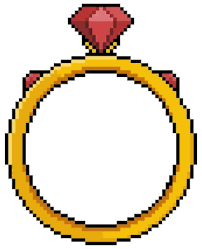
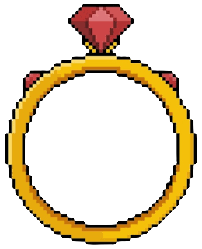
update

diff --git a/lib/game/entities/unicorn.dart b/lib/game/entities/unicorn.dart
@@ -1,0 +1,49 @@
+import 'package:flame/components.dart';
+import 'package:flame_behaviors/flame_behaviors.dart';
+import 'package:flutter/material.dart';
+import 'package:player_ns_shaft/gen/assets.gen.dart';
+
+class Unicorn extends Entity with HasGameRef {
+  Unicorn({
+    required super.position,
+  }) : super(size: Vector2.all(32), anchor: Anchor.center);
+
+  @visibleForTesting
+  Unicorn.test({
+    required super.position,
+    super.behaviors,
+  }) : super(size: Vector2.all(32));
+
+  SpriteAnimation? _animation;
+  int removeLimit = 0;
+
+  @visibleForTesting
+  SpriteAnimation get animation => _animation!;
+
+  @override
+  Future<void> onLoad() async {
+    _animation = await gameRef.loadSpriteAnimation(
+      Assets.images.unicornAnimation.path,
+      SpriteAnimationData.sequenced(
+        amount: 16,
+        stepTime: 0.1,
+        textureSize: Vector2.all(32),
+        loop: false,
+      ),
+    );
+
+    await add(SpriteAnimationComponent(animation: _animation, size: size));
+  }
+
+  @override
+  void update(double dt) {
+    final cameraVisibleBottom =
+        gameRef.camera.position.y + gameRef.camera.gameSize.y / 2 + 32;
+    if (position.y < cameraVisibleBottom) {
+      removeLimit++;
+      if (removeLimit == 200) {
+        gameRef.remove(this);
+      }
+    }
+  }
+}

diff --git a/lib/gen/assets.gen.dart b/lib/gen/assets.gen.dart
@@ -25,6 +25,9 @@ class $AssetsAudioGen {
 class $AssetsImagesGen {
   const $AssetsImagesGen();
 
+  /// File path: assets/images/ring.png
+  AssetGenImage get ring => const AssetGenImage('assets/images/ring.png');
+
   /// File path: assets/images/unicorn_animation.png
   AssetGenImage get unicornAnimation =>
       const AssetGenImage('assets/images/unicorn_animation.png');
@@ -33,21 +36,8 @@ class $AssetsImagesGen {
   AssetGenImage get warriorAnimation =>
       const AssetGenImage('assets/images/warrior_animation.png');
 
-  /// File path: assets/images/wooden_control_left.png
-  AssetGenImage get woodenControlLeft =>
-      const AssetGenImage('assets/images/wooden_control_left.png');
-
-  /// File path: assets/images/wooden_control_right.png
-  AssetGenImage get woodenControlRight =>
-      const AssetGenImage('assets/images/wooden_control_right.png');
-
   /// List of all assets
-  List<AssetGenImage> get values => [
-        unicornAnimation,
-        warriorAnimation,
-        woodenControlLeft,
-        woodenControlRight
-      ];
+  List<AssetGenImage> get values => [ring, unicornAnimation, warriorAnimation];
 }
 
 class $AssetsLicensesGen {

diff --git a/lib/game/player_ns_shaft.dart b/lib/game/player_ns_shaft.dart
@@ -7,9 +7,11 @@ import 'package:flame/palette.dart';
 import 'package:flutter/material.dart';
 import 'package:player_ns_shaft/game/entities/final_terrace.dart';
 import 'package:player_ns_shaft/game/entities/player/player.dart';
+import 'package:player_ns_shaft/game/entities/ring.dart';
 import 'package:player_ns_shaft/game/entities/score.dart';
 import 'package:player_ns_shaft/game/entities/terrace.dart';
 import 'package:player_ns_shaft/game/entities/terrace_generator.dart';
+import 'package:player_ns_shaft/game/entities/unicorn.dart';
 import 'package:player_ns_shaft/l10n/l10n.dart';
 
 enum WarriorBehavior {
@@ -69,8 +71,9 @@ class VeryGoodFlameGame extends FlameGame
     //   ),
     // );
     if (isNormalMode) {
+      await add(Ring(position: Vector2(size.x / 2, 300)));
       await add(
-        FinalTerrace(position: Vector2(0, 1000), size: Vector2(size.x, 200)),
+        FinalTerrace(position: Vector2(0, 300), size: Vector2(size.x, 200)),
       );
     }
   }

diff --git a/lib/game/entities/ring.dart b/lib/game/entities/ring.dart
@@ -1,0 +1,31 @@
+import 'package:flame/components.dart';
+import 'package:player_ns_shaft/game/player_ns_shaft.dart';
+import 'package:player_ns_shaft/gen/assets.gen.dart';
+
+class Ring extends PositionComponent with HasGameRef<VeryGoodFlameGame> {
+  Ring({
+    required super.position,
+  }) : super(size: Vector2(30, 30), anchor: Anchor.center);
+
+  int removeLimit = 0;
+
+  @override
+  Future<void> onLoad() async {
+    final sprite = await Sprite.load(Assets.images.ring.path);
+    final spriteComponent = SpriteComponent(
+        sprite: sprite, size: Vector2(30, 30), anchor: Anchor.center);
+    await add(spriteComponent);
+  }
+
+  @override
+  void update(double dt) {
+    final cameraVisibleBottom =
+        gameRef.camera.position.y + gameRef.camera.gameSize.y / 2 + 50;
+    if (position.y < cameraVisibleBottom) {
+      removeLimit++;
+      if (removeLimit == 200) {
+        gameRef.remove(this);
+      }
+    }
+  }
+}
